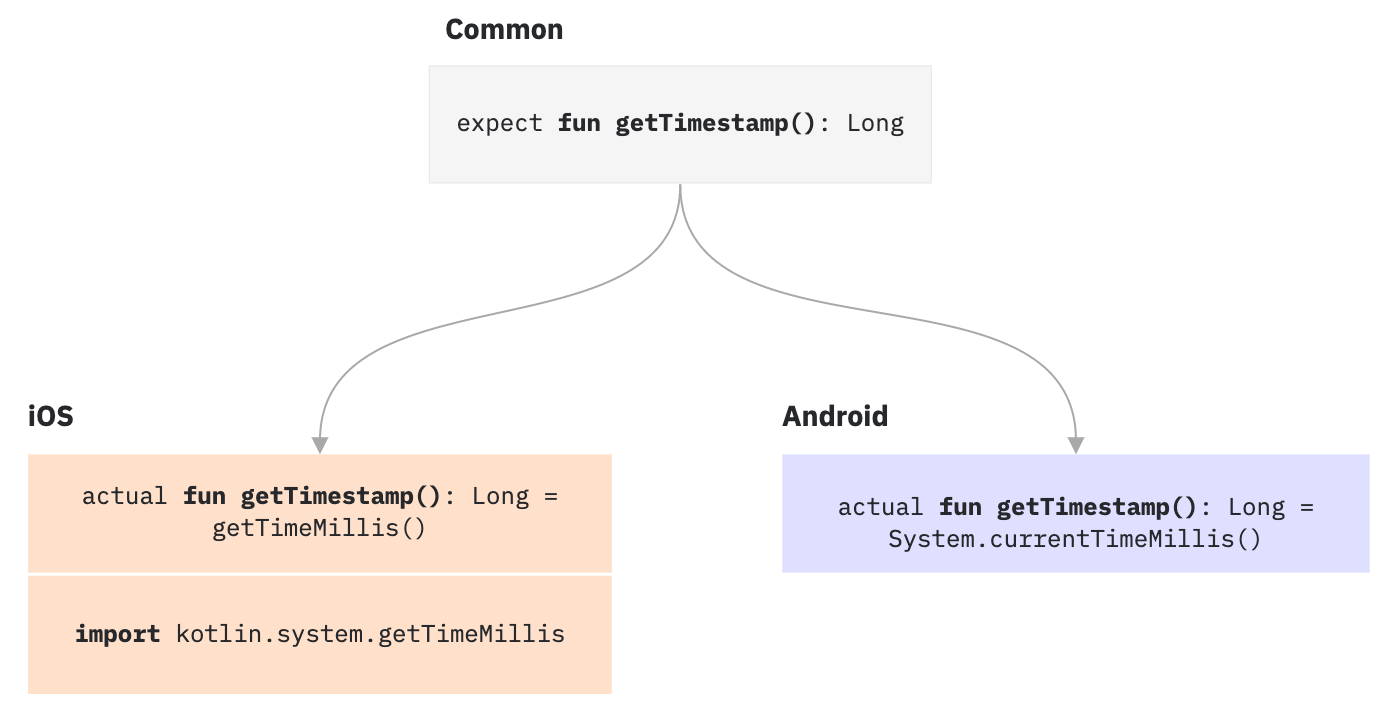
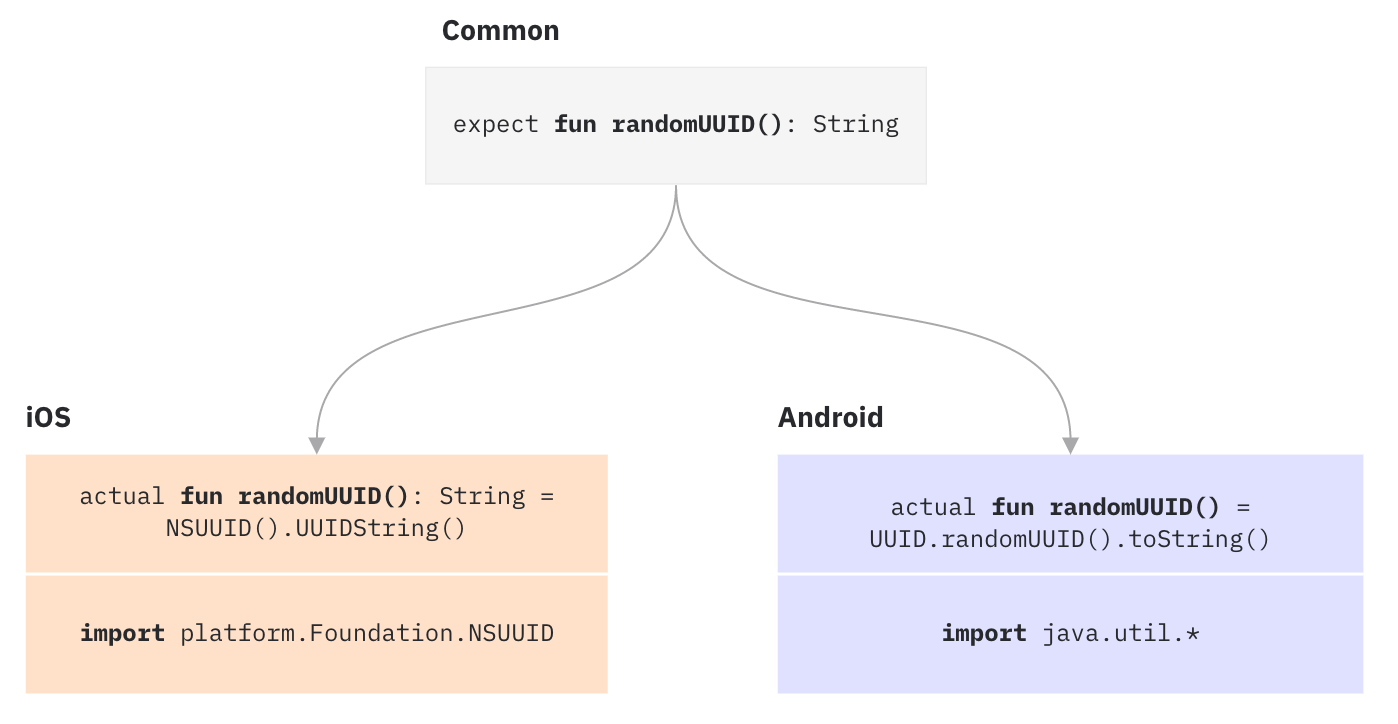
update: updated expect/actual example in Connect to APIs, minor text edits in Create first app

diff --git a/topics/connect-to-platform-specific-apis.md b/topics/connect-to-platform-specific-apis.md
@@ -35,9 +35,6 @@ you need to use a specific target name from [the list of supported targets](http
 Let's assume that you are developing iOS and Android applications using Kotlin Multiplatform Mobile and you want to 
 generate a universally unique identifier (UUID).
 
-
-[//]: # "TODO: Update picture"
-
 ![Expect/actual declarations for getting the UUID](expect-actual-example.png){width=700}
 
 For this purpose, declare the expected function `randomUUID()` with the `expect` keyword in the common module. 

diff --git a/topics/create-first-app.md b/topics/create-first-app.md
@@ -41,7 +41,7 @@ You can run your multiplatform application on [Android](#run-your-application-on
 
 Learn how to [configure the Android Emulator and run your application on a different simulated device](https://developer.android.com/studio/run/emulator#runningapp).
     
-#### Run on a hardware Android device
+#### Run on a real Android device
 
 Learn how to [configure and connect a hardware device, and run your application on it](https://developer.android.com/studio/run/device).
 
